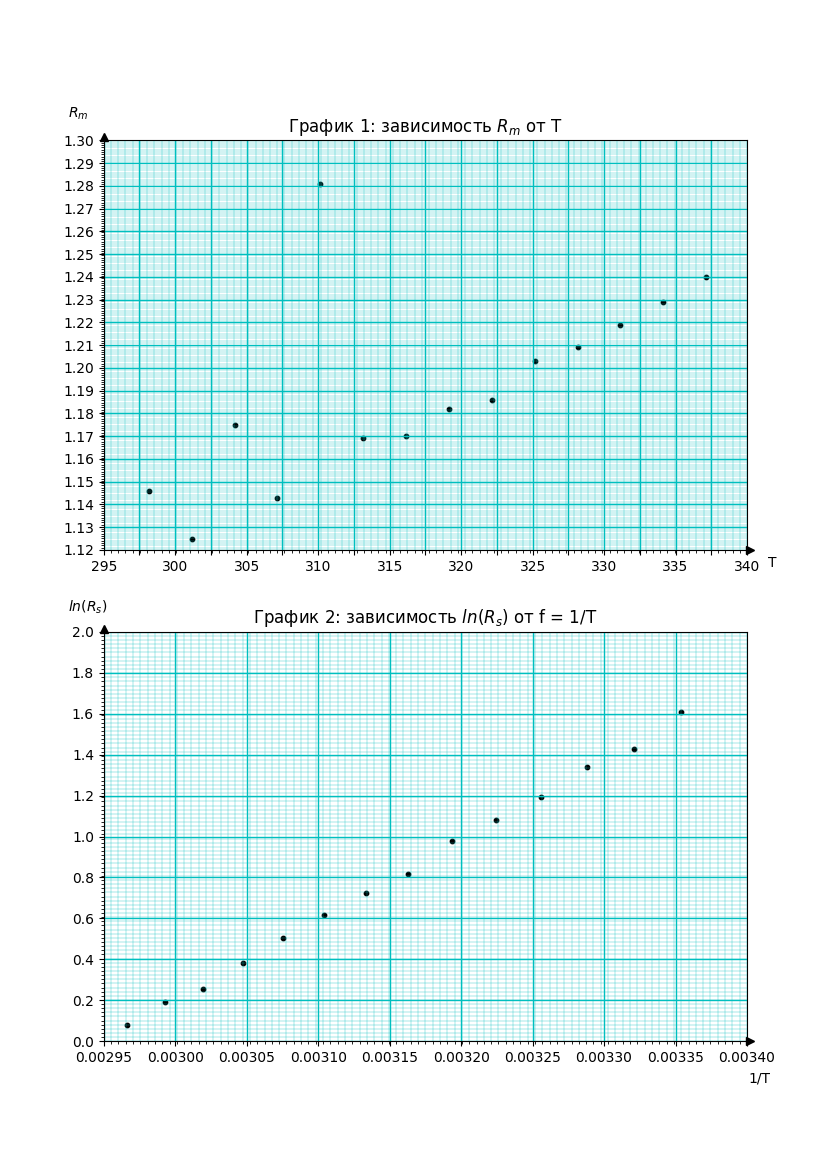
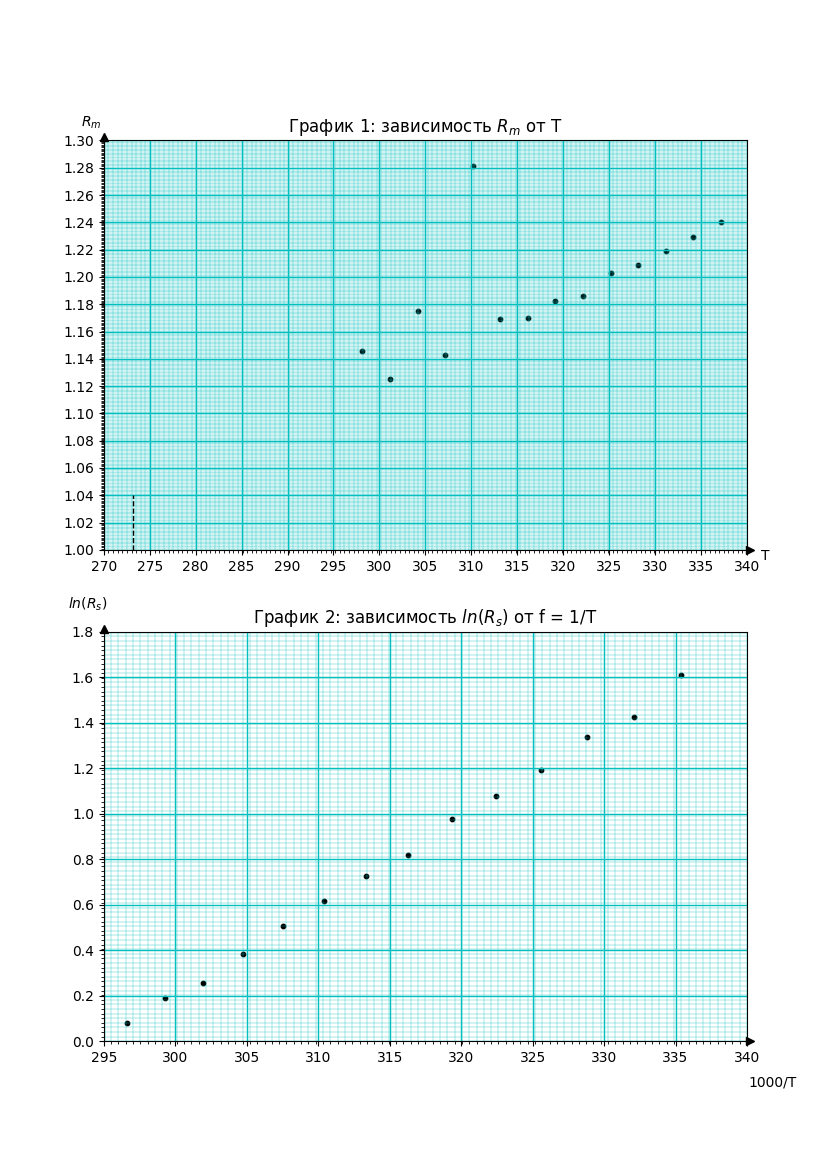
Finished lab 2

diff --git a/2Sem/2/graph.py b/2Sem/2/graph.py
@@ -1,4 +1,3 @@
-from re import X
 import numpy as np
 import matplotlib.pyplot as plt
 from matplotlib.ticker import MultipleLocator, LinearLocator
@@ -10,13 +9,33 @@ def get_data (file, x, y, z):
         y.append(float(line[2]))
         z.append(float(line[3]))
 
-def pair_point_method(x_list, y_list):
-    angle = 0
+def pair_point_method(x_list, y_list, k, filename):
+    file = open(filename, 'w')
+    file.write("Y, X, alpha\n")
+    sum = 0
     pairs = int(len(x_list)/2)
     for i in range(pairs):
-        angle += ((y_list[i+pairs] - y_list[i]))\
-            / (x_list[i+pairs] - x_list[i])
-    return angle / pairs
+        y = y_list[i+pairs] - y_list[i]
+        x = x_list[i+pairs] - x_list[i]
+        angle = k * (y/x) 
+        sum += angle
+        file.write("{}, {}, {}\n".format(y, x, angle))
+    avg = sum/pairs
+    file.write("The average is {}\n".format(avg))
+
+    file.write("alpha-<alpha>, (alpha-<alpha>)^2\n")
+    print("AAAAAA")
+    for i in range(pairs):
+        y = y_list[i+pairs] - y_list[i]
+        x = x_list[i+pairs] - x_list[i]
+        angle = round(k * (y/x), 6) 
+        dif = angle - round(avg, 6) 
+        dif2 = dif * dif
+        print(angle, dif, dif2)
+
+        file.write("{}, {}\n".format(dif, dif2))
+    file.close()
+    return avg
 
 def add_spaces_to_sides(string, num_before_dot, num_after_dot):
     left_len = len(string.split('.')[0]) 
@@ -38,10 +57,6 @@ def calc_parabola_vertex(x1, y1, x2, y2, x3, y3):
 fig_width = 8.3; fig_height = 11.7 # Size of A4 paper in inches
 file = "data.csv"
 
-l = 1.00 #mm
-h = 1.00 #mm
-d =  7.00 * 10**3 #mm
-
 if __name__ == "__main__":
     data = open(file, "r")
     t  = []
@@ -52,31 +67,32 @@ if __name__ == "__main__":
     Rm = np.array(Rm)
     Rs = np.array(Rs)
 
-    print("Table 1")
+    print("Table 1\n", 11*'-')
     for i in range(len(t)):
         print(t[i], Rm[i], Rs[i])
+    print(11*'-')
 
     T = t + 273.15
     one_by_T = 1/T
     lnRs = np.emath.log(Rs)
+
+    print("T min, max:", min(T), max(T))
+    print("Rm min, max:", min(Rm), max(Rm))
+    print("ln(Rs) min, max:", min(lnRs), max(lnRs))
+    print(11*'-')
+
     Fig = plt.figure(figsize=(fig_width, fig_height))
     Ax1 = plt.subplot(211)
 
     # Set them manualy
+    conv = 1000 # from kOms to Oms
     xstep = 5.0
-    ystep = 0.01
-    xmin = 295.0; xmax = 340.0
-    ymin = 1.12; ymax = 1.30
-    xmult = 2; ymult = 1000
+    ystep = 0.02*conv
+    xmin = 270.0; xmax = 340.0
+    ymin = 1.00*conv; ymax = 1.30*conv
+    xmult = 2; ymult = 1000/conv
 
-    Xlabels = [""]
-    for i in range(int(xmin)*10, int(xmax)*10+1, int(xstep)*5):
-        if i % 10 == 0:
-            Xlabels.append(str(int(i/10)))
-        else:
-            Xlabels.append("")
-
-    Ax1.xaxis.set_major_locator(MultipleLocator(xstep/2))
+    Ax1.xaxis.set_major_locator(MultipleLocator(xstep))
     Ax1.xaxis.set_minor_locator(LinearLocator(int((xmax-xmin)*xmult)))
     Ax1.yaxis.set_major_locator(MultipleLocator(ystep))
     Ax1.yaxis.set_minor_locator(LinearLocator(int((ymax-ymin)*ymult)))
@@ -94,16 +110,46 @@ if __name__ == "__main__":
     Ax1.plot(xmin, 1+0.0075, "^k", transform=Ax1.get_xaxis_transform(),
             clip_on=False)
 
-    Ax1.set_xticklabels(Xlabels)
 
     #plt.plot   (T, Rm, color="black")
+    tzero_x = 2 * [273.15]
+    tzero_y = [i for i in range(1000, 1080, 40)]
+    plt.plot(tzero_x, tzero_y, "--", color="black", lw=1)
+
+    Rm = Rm*conv
+    print(Rm)
+    print("Pairs for calculating the angle")
+    xpair = [T[1], T[3]]+list(T[6:])
+    ypair = [Rm[1], Rm[3]]+list(Rm[6:])
+    for i in range(len(xpair)):
+        print(i+1, xpair[i], ypair[i])
+    print(11*'-')
+
+    R0 = 1033
+
+    alpha = pair_point_method(xpair, ypair, 1/R0, "pair_point1.csv")
+    print("The avg angle is", alpha)
+
+    print(10*'-')
+    mid = 0
+    for i in range(len(xpair)):
+        ans = ypair[i] - alpha*xpair[i]
+        print(ans)
+        mid += ans
+    mid = mid/len(xpair)
+    print("MID =", mid)
+    print(10*'-')
+
+    x = np.array([i for i in range(int(xmin), int(xmax), 5)])
+    plt.plot(x, alpha*x+mid, 'k--')
+
     plt.scatter(T, Rm, color="black", s=10)
 
     Ax2 = plt.subplot(212)
     xstep = 0.00005
     ystep = 0.2
     xmin = 0.00295; xmax = 0.00340
-    ymin = 0.0; ymax = 2.0
+    ymin = 0.0; ymax = 1.8
     xmult = 200000; ymult = 50
 
     Ax2.xaxis.set_major_locator(MultipleLocator(xstep))
@@ -112,7 +158,7 @@ if __name__ == "__main__":
     Ax2.yaxis.set_minor_locator(LinearLocator(int((ymax-ymin)*ymult)))
 
     Ax2.text(xmin-0.000025, ymax+0.1, r'$ln(R_s)$')
-    Ax2.text(xmax+0.000001, ymin-0.2, r'1/T')
+    Ax2.text(xmax+0.000001, ymin-0.2, r'1000/T')
     Ax2.set(xlim=(xmin, xmax), ylim=(ymin, ymax),
             title= r'График 2: зависимость $ln(R_s)$ от f = 1/T')
 
@@ -124,7 +170,15 @@ if __name__ == "__main__":
     Ax2.plot(xmin, 1+0.0075, "^k", transform=Ax2.get_xaxis_transform(),
             clip_on=False)
 
-    #Ax2.set_xticklabels(Xlabels)
+    gamma = pair_point_method(one_by_T, lnRs, 1,"pair_point2.csv")
+
+    X2labels = [""]
+    for i in range(int(xmin*100_000), int(xmax*100_000)+int(xstep*100_000),
+                   int(xstep*100_000)):
+        #print(i)
+        X2labels.append(str(i))
+    Ax2.set_xticklabels(X2labels)
+
     plt.scatter(one_by_T, lnRs, color="black", s=10)
     #plt.savefig("graph1and2.png")
     plt.show()

diff --git a/2Sem/2/ak.py b/2Sem/2/ak.py
@@ -1,0 +1,7 @@
+import numpy as np
+import matplotlib.pyplot as plt
+
+if __name__ == '__main__':
+    x = np.array([i for i in range(10)])
+    plt.plot(x, 3*x)
+    plt.show()
